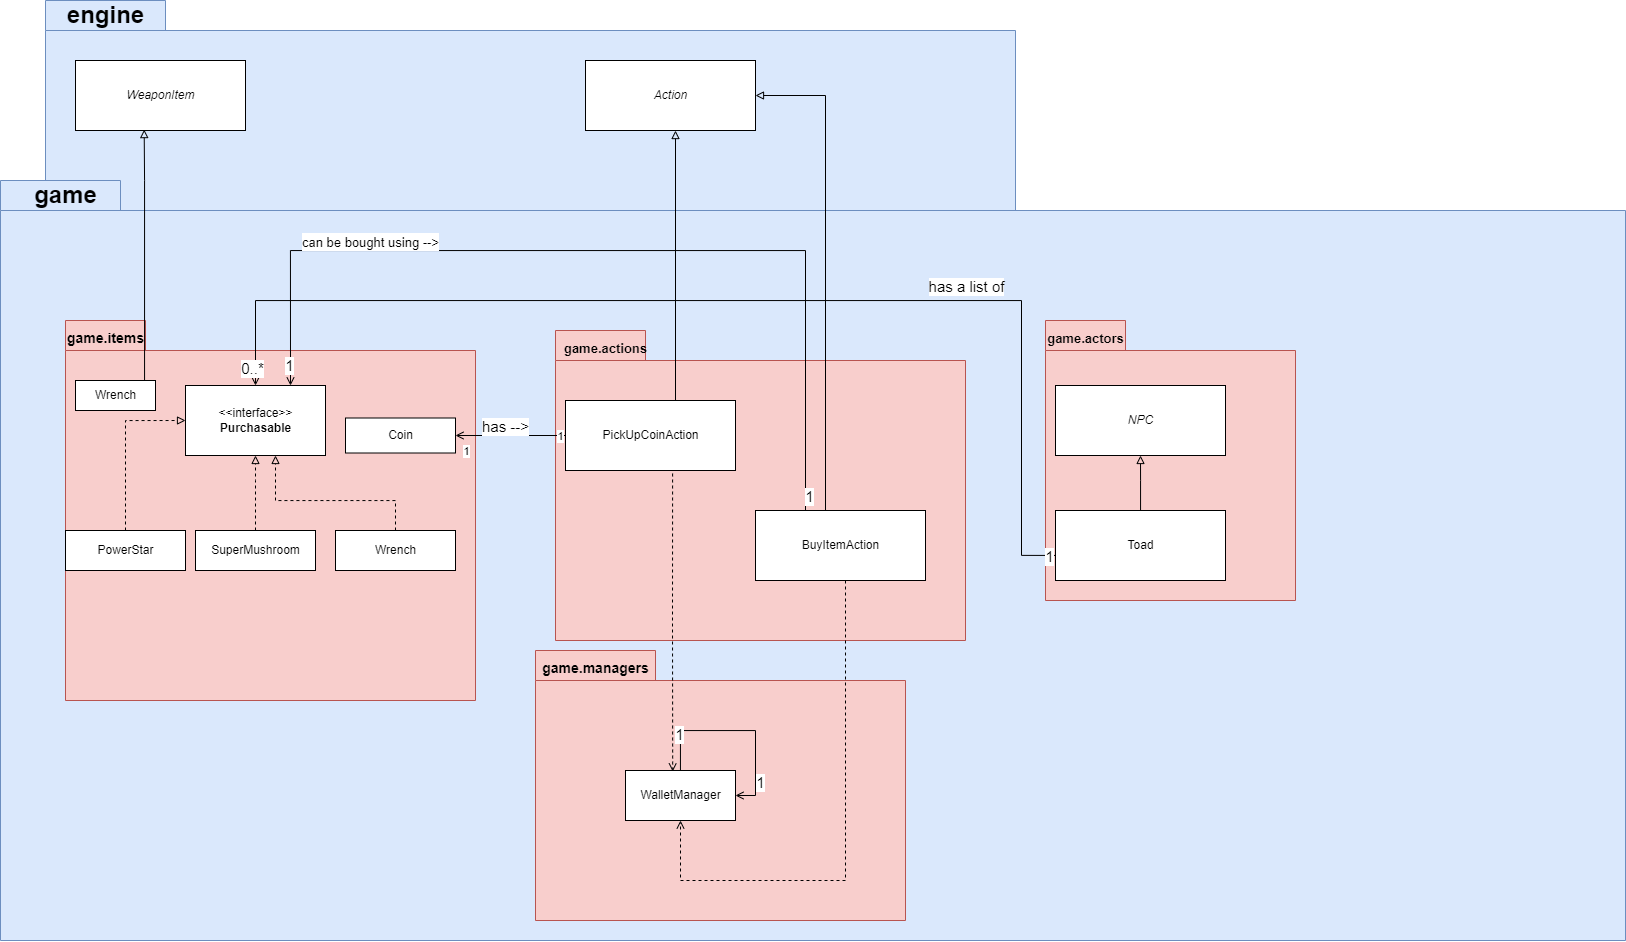
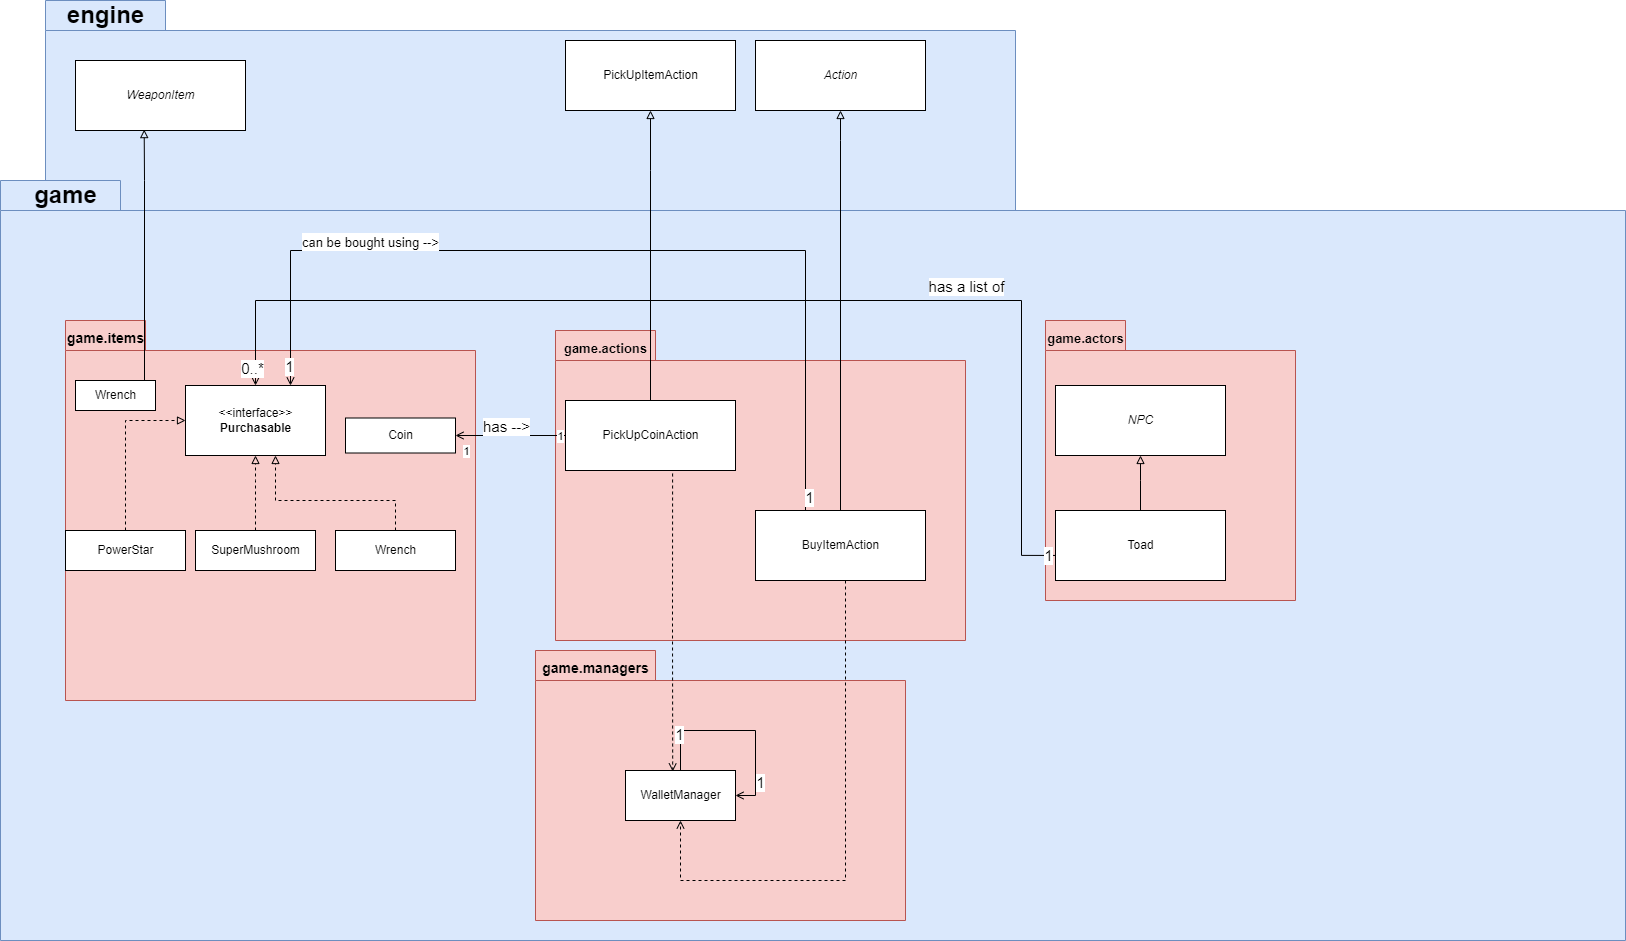
Modified PickupCoinAction such that it extends PickUpItemAction, made coin override getPickUpAction instead of getAllowableActions. Adjusted UML diagram and documentation to match code implementation

diff --git a/src/game/items/Coin.java b/src/game/items/Coin.java
@@ -1,8 +1,9 @@
 package game.items;
 
 import edu.monash.fit2099.engine.actions.Action;
+import edu.monash.fit2099.engine.actors.Actor;
 import edu.monash.fit2099.engine.items.Item;
-import edu.monash.fit2099.engine.positions.GameMap;
+import edu.monash.fit2099.engine.items.PickUpItemAction;
 import edu.monash.fit2099.engine.positions.Location;
 import game.actions.PickupCoinAction;
 import game.reset.Resettable;
@@ -18,17 +19,17 @@ public class Coin extends Item implements Resettable {
      *  @param value The value of the coin
      */
     public Coin(Integer value) {
-        super("Coin", '$', false);
+        super("Coin", '$', true);
         this.value = value;
         this.registerInstance();
     }
 
-
-    public List<Action> getAllowableActions() {
-        ArrayList<Action> actions = new ArrayList<>();
-        actions.add(new PickupCoinAction(this));
-        return actions;
+    @Override
+    public PickUpItemAction getPickUpAction(Actor actor){
+        return new PickupCoinAction(this);
     }
+
+
     public Integer getValue(){
         return this.value;
     }

diff --git a/src/game/actions/PickupCoinAction.java b/src/game/actions/PickupCoinAction.java
@@ -1,16 +1,17 @@
 package game.actions;
 
-import edu.monash.fit2099.engine.actions.Action;
 import edu.monash.fit2099.engine.actors.Actor;
+import edu.monash.fit2099.engine.items.PickUpItemAction;
 import edu.monash.fit2099.engine.positions.GameMap;
 import game.items.Coin;
 import game.managers.WalletManager;
 
 
-public class PickupCoinAction extends Action {
+public class PickupCoinAction extends PickUpItemAction {
     private Coin coin;
 
     public PickupCoinAction(Coin coin) {
+        super(coin);
         this.coin = coin;
     }
 
